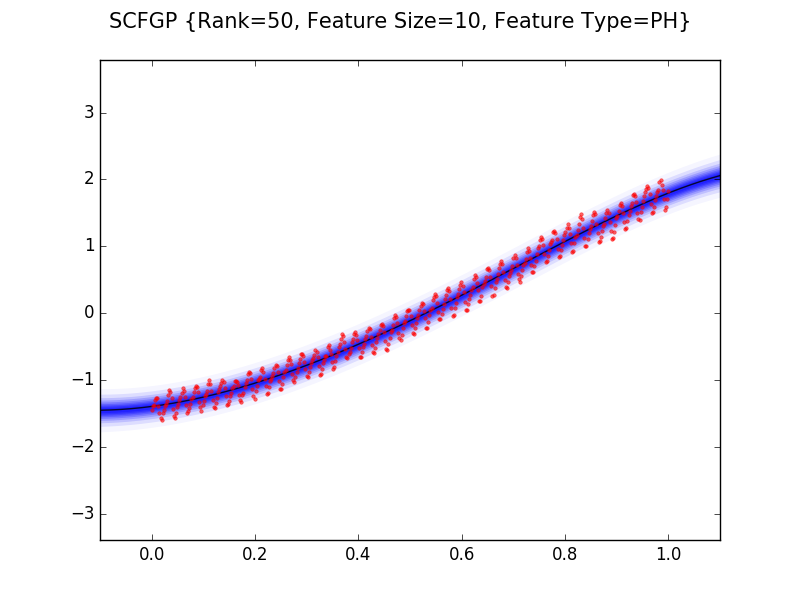
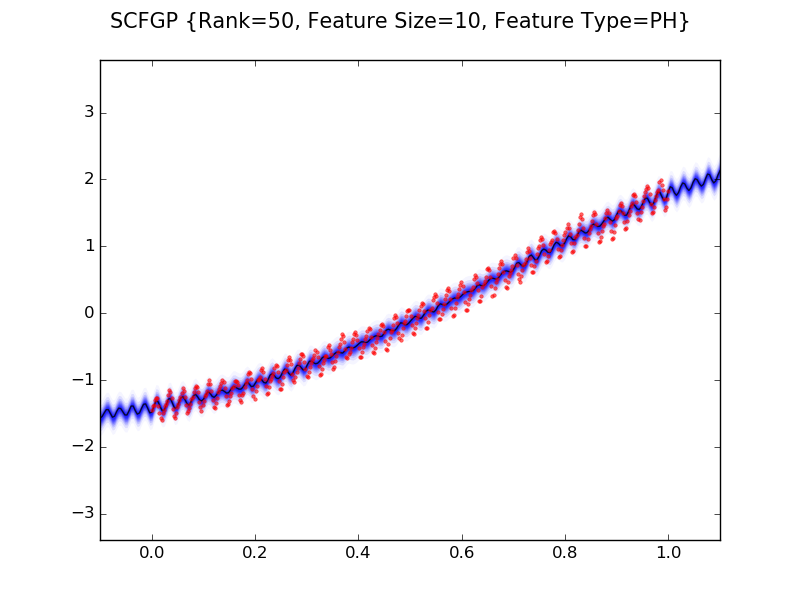
latest commit

diff --git a/SCFGP/util/Optimizers.py b/SCFGP/util/Optimizers.py
@@ -69,6 +69,9 @@ class Optimizer(object):
                 min_f = f
             if(cvrg_iter > self.max_cvrg_iter):
                 break
+            elif(cvrg_iter > self.max_cvrg_iter*0.5):
+                randp = np.random.rand()
+                x = randp*x+(1-randp)*argmin_x
             v = m*v-(1.0-m)*g
             x += step_size*v
         train(-1, argmin_x)
@@ -108,6 +111,9 @@ class Optimizer(object):
                 min_f = f
             if(cvrg_iter > self.max_cvrg_iter):
                 break
+            elif(cvrg_iter > self.max_cvrg_iter*0.5):
+                randp = np.random.rand()
+                x = randp*x+(1-randp)*argmin_x
             avg_sq_grad = avg_sq_grad*gamma+g**2*(1-gamma)
             x -= step_size*g/(np.sqrt(avg_sq_grad)+1e-10)
         train(-1, argmin_x)
@@ -148,6 +154,9 @@ class Optimizer(object):
                 min_f = f
             if(cvrg_iter > self.max_cvrg_iter):
                 break
+            elif(cvrg_iter > self.max_cvrg_iter*0.5):
+                randp = np.random.rand()
+                x = randp*x+(1-randp)*argmin_x
             m = (1-b1)*g+b1*m
             v = (1-b2)*(g**2)+b2*v
             mhat = m/(1-b1**(i+1))
@@ -193,6 +202,9 @@ class Optimizer(object):
                 min_f = f
             if(cvrg_iter > self.max_cvrg_iter):
                 break
+            elif(cvrg_iter > self.max_cvrg_iter*0.5):
+                randp = np.random.rand()
+                x = randp*x+(1-randp)*argmin_x
             r = 1/(m+1)
             g1 = (1-r)*g1+r*g
             g2 = (1-r)*g2+r*g**2

diff --git a/experiments/co2/CO2_1d_regression.py b/experiments/co2/CO2_1d_regression.py
@@ -7,12 +7,12 @@ import time
 import numpy as np
 import matplotlib.pyplot as plt
 try:
-    from SCFGP import Regressor, Optimizer
+    from SCFGP import SCFGP, Optimizer
 except:
     print("SCFGP is not installed yet! Trying to call directly from source...")
     from sys import path
     path.append("../../")
-    from SCFGP import Regressor, Optimizer
+    from SCFGP import SCFGP, Optimizer
     print("done.")
 
 def load_co2_data(proportion=0.1):
@@ -25,14 +25,14 @@ def load_co2_data(proportion=0.1):
     X = X.astype(np.float64)
     return X, y
 
-Ms = [10, 20, 30]
-model_types = ["phz", "fz", "ph", "f"]
+Ms = [10]
+model_types = ["ph"]
 X, y = load_co2_data()
-opt = Optimizer("adam", int(1e10), 50, 1e-5, [0.05, 0.9, 0.999])
+opt = Optimizer("adam", [0.05, 0.9, 0.999], int(1e10), 20, 1e-6, True)
 for fftype in model_types:
-    for rank in ["full", 50, 100]:
+    for rank in [50]:
         for M in Ms:
-            model = Regressor(rank, M, fftype=fftype, msg=False)
+            model = SCFGP(rank, M, fftype=fftype, msg=False)
             model.fit(X, y, opt=opt, plot_1d_function=True)
             plt.savefig('co2_%s_%d_%s.png'%(str(rank), M, fftype))
             plt.close()

diff --git a/experiments/mnist/dimensionality_reduction.py b/experiments/mnist/dimensionality_reduction.py
@@ -8,12 +8,12 @@ import matplotlib.pyplot as plt
 import matplotlib.animation as anm
 from sklearn.preprocessing import label_binarize
 try:
-    from SCFGP import Regressor
+    from SCFGP import SCFGP
 except:
     print("SCFGP is not installed yet! Trying to call directly from source...")
     from sys import path
     path.append("../../")
-    from SCFGP import Regressor
+    from SCFGP import SCFGP
     print("done.")
 
     
@@ -36,7 +36,7 @@ Ms = [10, 30, 50]
 model_types = ["phz", "fz", "ph", "f"]
 for M in Ms:
     for fftype in model_types:
-        model = Regressor(rank=2, feature_size=M, fftype=fftype)
+        model = SCFGP(rank=2, feature_size=M, fftype=fftype)
         def callback():
             if(model.iter == 1):
                 fig = plt.figure(figsize=(8, 6), facecolor='white', dpi=120)

diff --git a/README.md b/README.md
@@ -92,12 +92,18 @@ Out[3]: ((5000, 8), (5000, 1), (3192, 8), (3192, 1))
 "Training time is sensitive to the number of Fourier feature, but less sensitive to the sample size."
 </h3>
 # Examine the Efficacy of Training Process on Real-Time
-## Training on High-dimensional Data (Boston Housing Prices)
+## Training on High-dimensional Inputs (Boston Housing Prices)
 ```python
 model.fit(X_train, y_train, {X_test}, {y_test}, plot_training=True)
 # <>: necessary inputs, {}: optional inputs
 ```
-![BostonHousingPlotTraining](experiments/boston_housing/plot_training.gif?raw=true "Boston Housing Plot Training")
+![PlotTraining](experiments/plot_training.gif?raw=true "Plot Training")
+## Training on One-dimensional Inputs (Boston Housing Prices)
+```python
+model.fit(X_train, y_train, {X_test}, {y_test}, plot_1d_function=True)
+# <>: necessary inputs, {}: optional inputs
+```
+![Plot1DFunction](experiments/plot_1d_function.gif?raw=true "Plot 1D Function")
 #License
 Copyright (c) 2016, Max W. Y. Lam
 All rights reserved.
